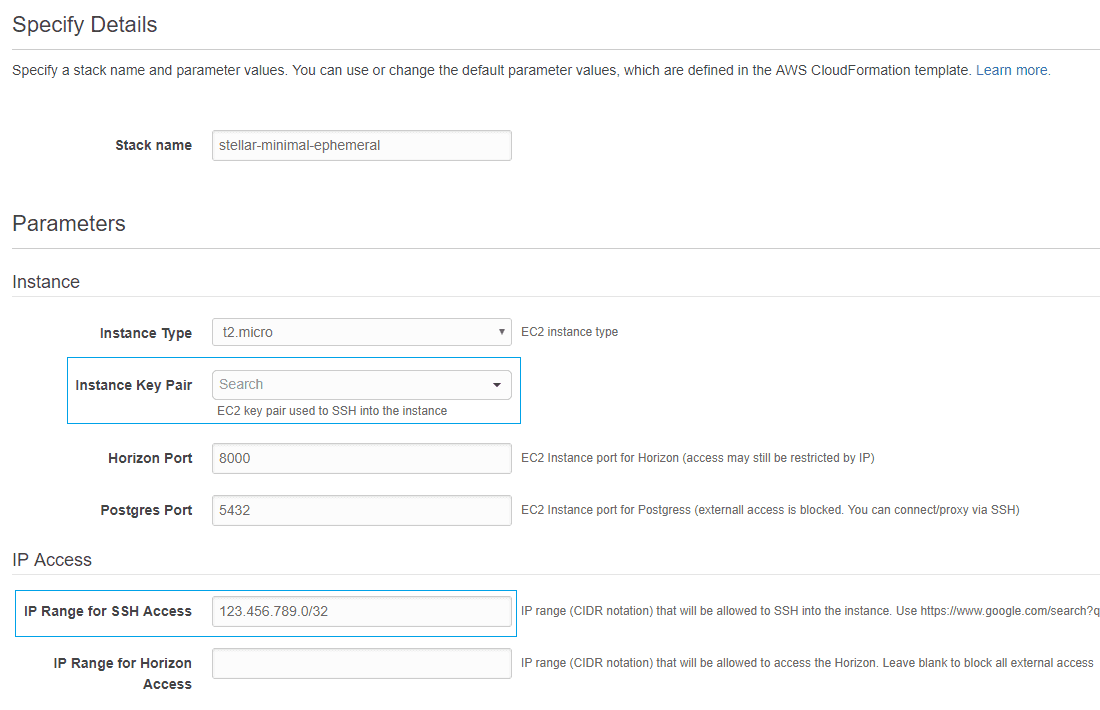
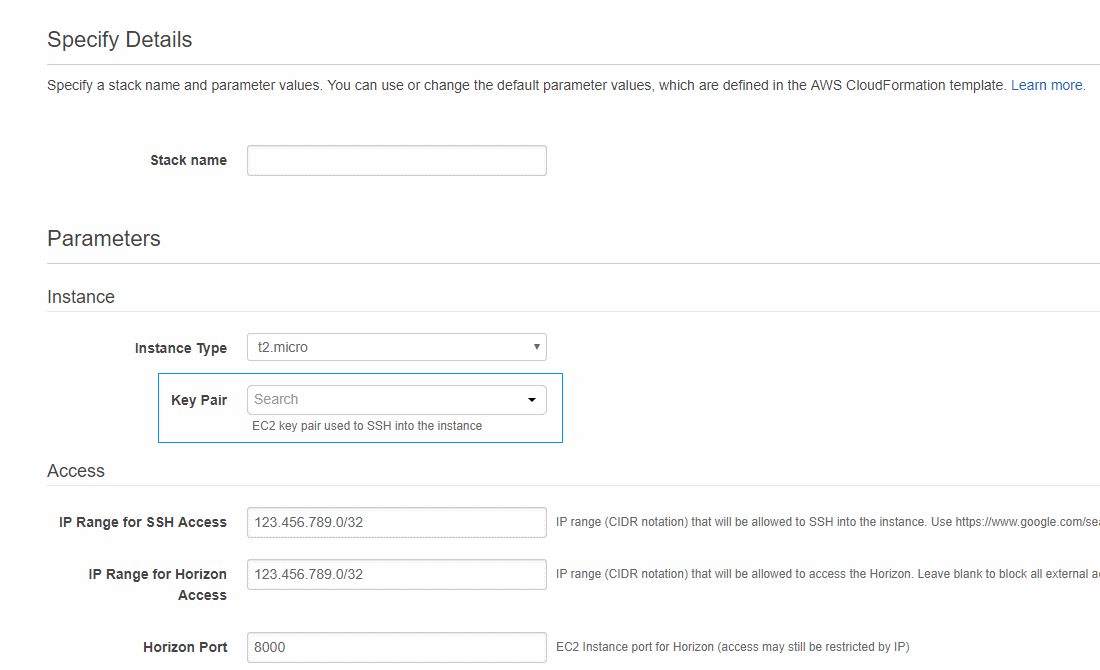
Auto-generate DB pass, simplify params, update README
DB pass generated using backported SecretsManager.getRandomPassword()

diff --git a/single-ec2/README.md b/single-ec2/README.md
@@ -8,9 +8,9 @@ Stellar-core, Horizon and PostgreSQL are all running in separate containers on t
 is used to manage the container, and EC2 Autoscaling will replace the instance if it crashes or is terminated, but 
 there is never more than one instance running at a time.
 
-The main difference between this template and the quickstart is that we follow the best practice of splitting 
+**The main difference between this template and the quickstart is that we follow the best practice of splitting 
 Core, Horizon and PostgreSQL into separate containers, and that logs are automatically sent to AWS CloudWatch
-allowing user to review logs directly from a web browser.
+allowing user to review logs directly from a web browser.**
 
 
 ## Prerequisites
@@ -39,7 +39,7 @@ the following resources:
  - [CloudWatch Logs](https://aws.amazon.com/cloudwatch/pricing/)
  - [Data transfer](https://aws.amazon.com/ec2/pricing/on-demand/#Data_Transfer)
 
-Any potential charges for data transfer will likely minimal or covered by the free teir.
+Any potential charges for data transfer will likely minimal or covered by the free tier.
 
 **Disclaimer:** While we attempt to provide useful and up to date information, you are responsible for your own AWS 
 account and the resources that you are charged for. Always be vigilant about doubling checking to ensure that the 
@@ -47,12 +47,93 @@ resources used are what your expect.
 <br />
 <br />
 
+## Template
+The template URL is a part of the launch link, so will be auto-selected by default. You don't need to change anything
+on this screen. [Click here to view the template](https://s3.amazonaws.com/public.starformlabs.io/nebulaforge/aws/single-ec2/master.yaml)
+directly, it never hurts to double check what you are deploying to your account!
+
+![template selection screen](../quickstart/images/select-template.png)
+<br />
+
+## Set Parameters
+Most of the default parameters can be left as is, however you must specify:
+- An SSH Key Pair to be associated with the instance (choose from the dropdown).
+- An IP address range that is allowed to SSH into the instance in [CIDR](https://en.wikipedia.org/wiki/Classless_Inter-Domain_Routing)
+format.
+- (Optional) An IP address range that is allowed to access the Horizon API via HTTP. Leave blank to block external access.
+
+**NOTE: To restrict access to your current IP [Find your IP](https://www.google.com/search?q=ip) and then add /32 to the end.**
+
+![specify template parameters](../quickstart/images/specify-details.png)
+<br />
+<br />
+
+## Options and Review
+You can **skip the options screen** entirely. On the review screen you can double check the parameters that you set.
+If you click the link for AWS Cost Explorer you can get an *estimate* of the monthly costs of running the resources to be
+deployed.
+
+![review](../quickstart/images/review-top.png)
+<br />
+<br />
+
+Be sure to select the acknowledgement at the end. It is basically confirming that you know that the template is
+creating and IAM Role. Click the "Learn more" link in the warning box if you don't understand what that means.
+
+![select the IAM resources checkbox](../quickstart/images/review-bottom.png)
+<br />
+<br />
+
+## In Progress
+
+It will take about 5 minutes for everything to be deloyed. You will see the resources being created in the events tab
+
+![create in progress](../quickstart/images/create-in-progress.png)
+<br />
+<br />
+
 ## Create Complete
 
 Once the deployment is done the status will be CREATE_COMPLETE. Switch to the **Outputs** tab to see the relevant URLs
-- The AutoScalingGroup link will take you to a page that has a direct link to the instance. You can use this to 
-find the instance IP.
-- The LogGroup link will take you to a CloudWatch page with separate log streams for core, horizon and postgres.
+- The SSH URL shows the IP of the server and the username. Authentication is done using the key pair specified earlier.
+- The Horizon URL is a direct link to the Horizon API.
+- The ContainersLogGroup link will take you to a CloudWatch page with separate log streams for core, horizon and postgres.
 - The ECS link will show you information about the state of the cluster.
+- The DbAppUser value and DbSuperUserPassword link to the Parameter Store (Theses are the credentials used by stellar-core and horizon)
+- The DbSuperUser value and DbSuperUserPassword link to the Parameter Store.
 
-More documentation to come...
+![output URLs](../quickstart/images/create-complete-output.png)
+<br />
+<br />
+
+## Finding the PostgreSQL password
+
+If you need database access, the PostgreSQL passwords are auto-generated by the template and stored securely in the 
+SSM Parameter Store. Click on the relevant link in the output tab to be taken to that page then click the link to 
+**Show** the value.
+
+## Viewing the detailed log output
+
+This template allows you to view the detailed logs generated by Stellar Core and Horizon without SSHing into your instance.
+If you click on the **ContainersLogGroup** link in the outputs tab it will take to a page that links to the log streams
+for core, horizon and the database.
+
+![containers log group](images/container-logs.png)
+<br />
+<br />
+
+Clicking on those links will show you more detailed logs for each system including consensus logging for core.
+
+![stellar core log details](images/container-log-details.png)
+<br />
+<br />
+
+## Final Notes
+
+1. Horizon is only accessible over HTTP, not HTTPS.
+
+1. The PostgreSQL port is not exposed to the internet. You must SSH into the server (or tunnel over SSH) to access the database.
+
+1. Please remember to report issues specific to the [docker image](https://github.com/stellar/docker-stellar-core-horizon/issues),
+[stellar-core](https://github.com/stellar/stellar-core/issues), [horizon](https://github.com/stellar/go/issues), etc 
+to the appropriate repo and only report issues related to the CloudFormation template [here](https://github.com/starformlabs/stellar-nebulaforge-aws/issues). 
